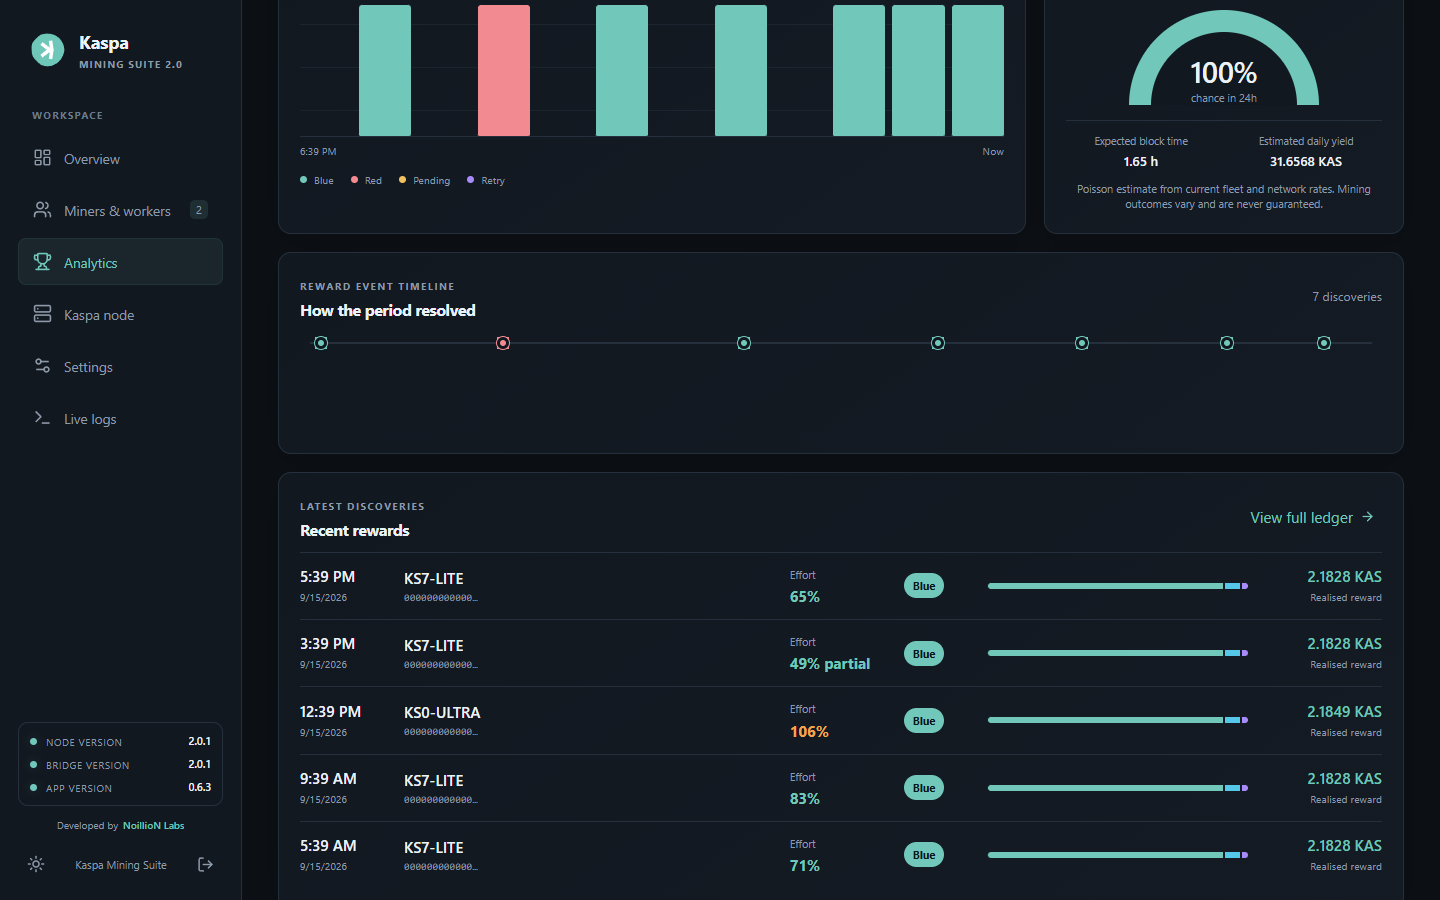
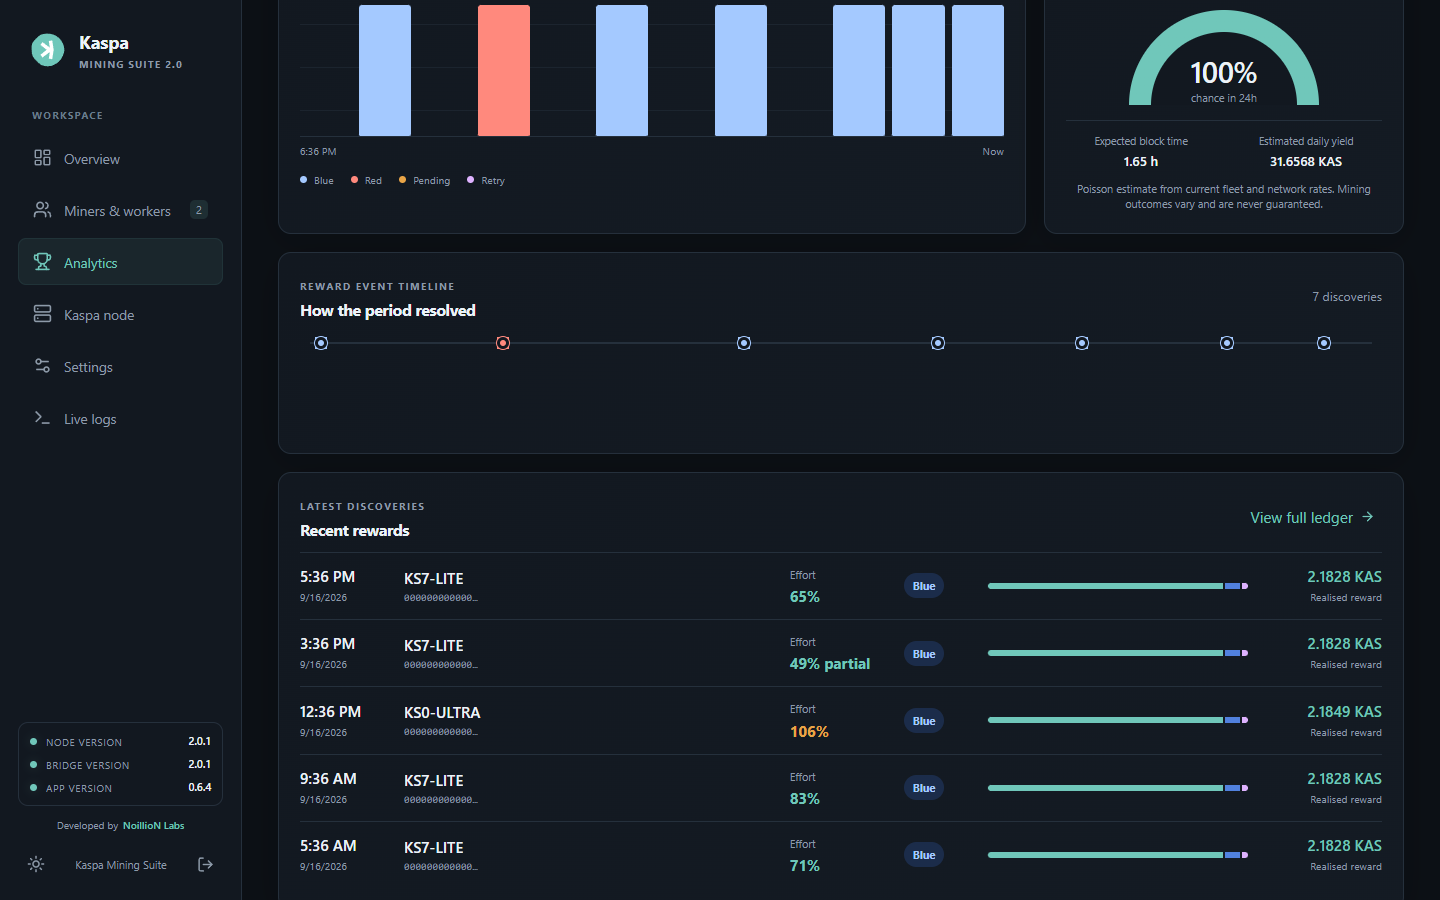
Publish Kaspa Mining Suite 2.0 version 0.6.4

diff --git a/README.md b/README.md
@@ -40,13 +40,13 @@ source, builds, tests, logs, diagnostics, and private release artifacts remain
 outside this store. A restricted synchronization workflow copies only the
 approved runtime-file allowlist from the two package source repositories.
 
-## Kaspa Mining Suite 2.0 — 0.6.2 upgrade
+## Kaspa Mining Suite 2.0 — current release
 
-Before upgrading, stop any other app or service using TCP **16111** on Umbrel. Suite 2.0 now uses **16111 → 16111** for Kaspa P2P; the former **16121** offset was for side-by-side testing.
+Version **0.6.4** improves Analytics colours and light-theme readability. It does not change mining behaviour, stored data or network ports. The suite uses UI **5560**, miner Stratum **5556**, and Kaspa P2P **16111 → 16111**.
 
-If you use router forwarding, configure external TCP **16111 → your Umbrel device's local IPv4 address, port 16111**. Update the destination even if your previous rule already used public port 16111. Remove the obsolete rule after checking incoming connectivity. Forwarding is optional for outbound peer operation.
+If upgrading from 0.6.2 or earlier, update every miner pool address to the Umbrel device on TCP **5556**. Before upgrading, stop any other app or service using TCP **16111**. The former **16121** P2P offset and **55556** Stratum port were temporary side-by-side testing allocations.
 
-The upgrade briefly restarts mining services. Existing node data, settings and ledger are retained, and miner Stratum stays on **55556**. If startup reports that port 16111 is already allocated or in use, stop the conflicting app and restart the suite. Do not delete existing data to resolve a port conflict.
+If you use router forwarding, configure external TCP **16111 → your Umbrel device's local IPv4 address, port 16111**. Forwarding is optional for outbound peer operation.
 
-For rollback to 0.6.1, restore its image and host P2P mapping **16121 → 16111**, plus the matching router destination. Keep existing data volumes.
+The upgrade briefly restarts mining services. Existing node data, settings and ledger are retained. If startup reports that port 16111 or 5556 is already allocated, stop the conflicting application and restart the suite. Do not delete existing data to resolve a port conflict.
 
